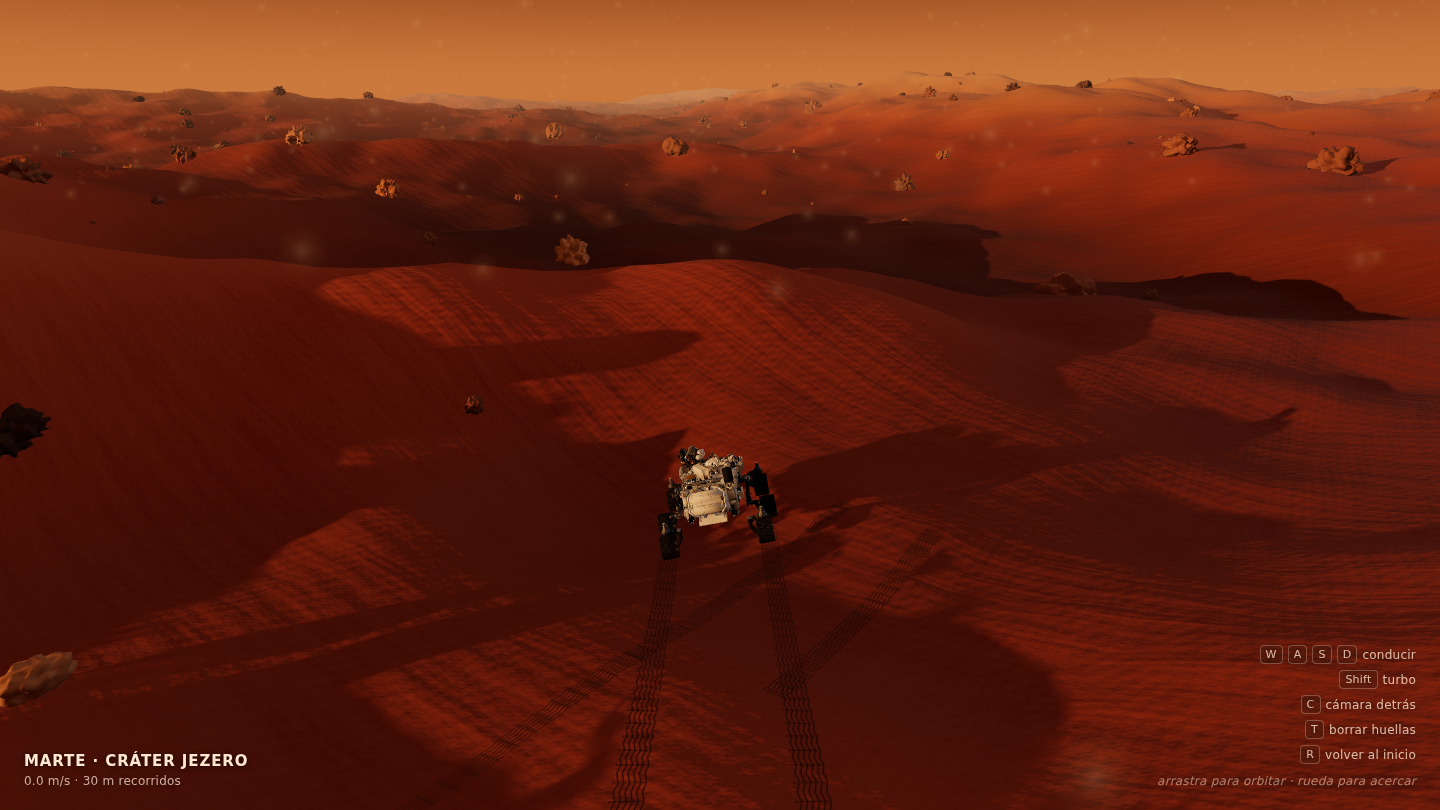
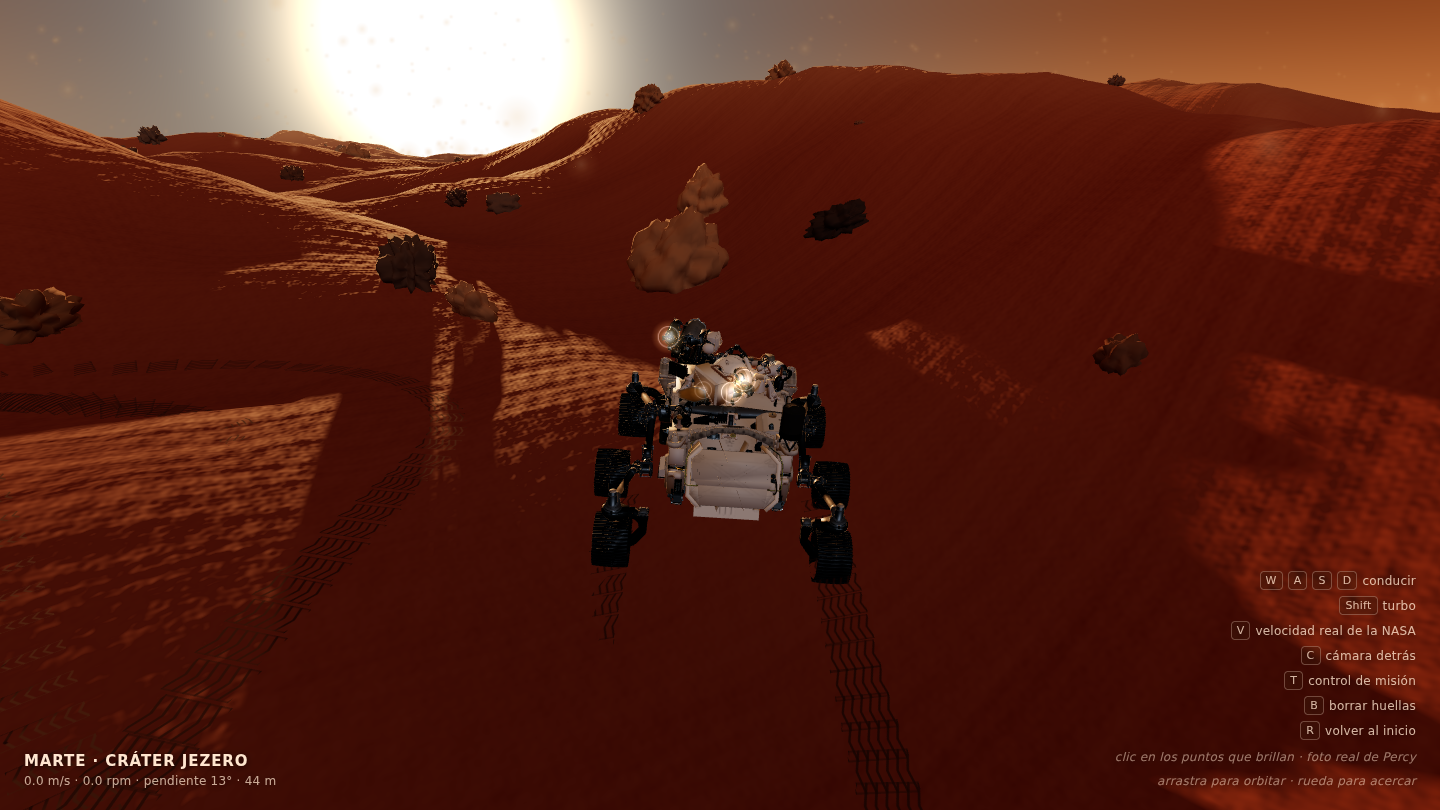
README al día: ruedas, cámaras y capturas nuevas
El README seguía describiendo la versión de antes de las ruedas y de las
cámaras. Ahora cuenta las dos cosas:

- Por qué las ruedas no giraban (el GLB las trae fundidas en un solo nodo,
  sin huesos) y cómo se separan con k-medias, más la física que va encima:
  rocker-bogie con diferencial, Ackermann y el límite de trepada.
- Las cuatro cámaras, de dónde salen las 19 fotos y con qué criterio se
  eligieron.
- Dos trampas nuevas en "detalles que costaron encontrarse": que
  Box3.setFromObject no actualiza las matrices de los padres, y que un
  overlay en pleno fundido sigue comiéndose el ratón.
- Controles completos (V, Esc, flechas, clic en los puntos) y qué comprueba
  hoy npm run check.

Capturas regeneradas con la versión actual: las viejas mostraban la leyenda
de teclas antigua (T borrar huellas, sin V ni cámaras). Nuevas: camaras.png,
foto.png y ruedas.png; rehechas paisaje.png, rover.png y huellas.png.

diff --git a/README.md b/README.md
@@ -1,13 +1,14 @@
 # 🔴 Perseverancia — Marte en el navegador
 
 Un atardecer en el cráter Jezero, renderizado en tiempo real con **Three.js**, con el
-rover **Perseverance** de la NASA conducible a escala real.
+rover **Perseverance** de la NASA conducible a escala real, sus seis ruedas girando
+con la mecánica de verdad y sus cámaras abriendo fotos reales de Marte.
 
-![Paisaje marciano con el sol de tarde y las dos lunas](docs/capturas/paisaje.png)
+![Paisaje marciano con el sol de tarde y Fobos sobre las dunas](docs/capturas/paisaje.png)
 
 > Proyecto hecho como práctica del **Curso de Claude Code para Programadores** (Platzi).
 > Toda la escena es procedural: no hay texturas descargadas ni mapas de altura externos.
-> Lo único que se descarga es el modelo 3D oficial del rover.
+> Lo único que se descarga es el modelo 3D oficial del rover y las fotos de la NASA.
 
 ---
 
@@ -19,16 +20,31 @@ rover **Perseverance** de la NASA conducible a escala real.
   el halo azulado que el polvo fino de Marte produce alrededor del sol al atardecer.
 - **Fobos y Deimos** modeladas con cráteres de perfil geológico real.
 - **El rover Perseverance** de la NASA, a su tamaño real de 3 metros.
-- **Conducción con WASD**, con el rover inclinándose según la pendiente.
+- **Las seis ruedas giran de verdad**, cada una a su velocidad, con suspensión
+  rocker-bogie, dirección Ackermann y giro sobre sí mismo. El GLB de la NASA las trae
+  fundidas en una sola malla: hay que separarlas en código.
+- **Las cámaras de Percy abren fotos reales de Marte**: cuatro puntos que brillan sobre
+  Mastcam-Z, las Navcam, las Hazcam delanteras y WATSON. Clic, obturador, y la foto se
+  revela poco a poco.
 - **Huellas de las ruedas** con el patrón de galones de los grousers reales.
 - **Control de misión** con telemetría real de Percy: distancia recorrida, altura del
   terreno e inclinación del historial de manejos de la NASA, más el tiempo de luz
   Tierra–Marte calculado en vivo con elementos orbitales del JPL.
 - **Verificación automática** con `npm run check`: abre la página en un Chrome
-  headless, guarda una captura, comprueba que los cuatro datos cargaron y falla si
-  hay errores de consola.
+  headless, conduce el rover, hace clic con el ratón en una cámara, guarda las capturas
+  y falla si hay errores de consola.
 
 ## Capturas
+
+**Las cuatro cámaras**, brillando sobre sus piezas del modelo, con su nombre al pasar
+el ratón:
+
+![Los cuatro puntos de cámara sobre el rover](docs/capturas/camaras.png)
+
+**La foto abierta**: Mastcam-Z, sol 2024, bajada en vivo de la API de imágenes en bruto
+de la NASA.
+
+![Una foto real de Marte abierta en el visor](docs/capturas/foto.png)
 
 | El rover a escala real | El rastro de huellas |
 |---|---|
@@ -51,10 +67,15 @@ npm run dev          # http://localhost:5173
 |---|---|
 | `W` `A` `S` `D` o flechas | Conducir |
 | `Shift` | Turbo |
+| `V` | Velocidad real de la NASA (0.042 m/s) |
 | `C` | Devolver la cámara detrás del rover |
 | `T` | Mostrar u ocultar el control de misión |
 | `B` | Borrar las huellas |
 | `R` | Volver al punto de inicio |
+| Clic en un punto que brilla | Abrir una foto real de esa cámara |
+| `←` `→` | Más fotos de esa cámara |
+| Clic en la foto | Ampliar o reducir |
+| `Esc` | Volver al juego |
 | Ratón | Arrastrar para orbitar, rueda para acercar |
 
 ### Verificación
@@ -64,10 +85,18 @@ npm run check
 ```
 
 Abre la página en un Chromium headless (el que Playwright ya tenga en caché, **sin
-descargar navegadores**), espera a que la escena termine de renderizar, comprueba que
-los cuatro datos del control de misión trajeron números reales y que la tecla `T` los
-oculta, guarda `check/screenshot.png` y `check/console.json`, y sale con código ≠ 0 si
-hubo errores. Útil para CI y para revisar un cambio sin abrir el navegador.
+descargar navegadores**) y comprueba de punta a punta:
+
+- que la escena renderiza y no hay errores de consola;
+- que los cuatro datos del control de misión trajeron números reales y que `T` los oculta;
+- que **las seis ruedas giran**, que en curva las de fuera giran más que las de dentro,
+  y que paradas y con `A` las cuatro esquinas se cruzan para girar sobre sí mismo;
+- que **las cuatro cámaras abren una foto real**: hace clic con el ratón de verdad sobre
+  cada punto, espera a que la imagen de `mars.nasa.gov` esté cargada y revelada, y
+  comprueba que las flechas pasan de foto y que `Esc` cierra.
+
+Deja `check/screenshot.png`, `check/foto-abierta.png` y `check/console.json`, y sale con
+código ≠ 0 si algo falló. Útil para CI y para revisar un cambio sin abrir el navegador.
 
 ## Cómo está hecho
 
@@ -81,8 +110,12 @@ src/
   rocks.js      rocas repartidas con InstancedMesh
   moons.js      Fobos y Deimos con cráteres
   dust.js       polvo en suspensión
-  rover.js      carga del GLB, escala real y conducción
+  rover.js      carga del GLB, escala real y toda la física de movilidad
+  wheels.js     parte la malla de las ruedas en seis y les monta los pivotes
   tracks.js     huellas de las ruedas
+  camaras.js    los puntos que brillan sobre las piezas ópticas
+  visor.js      obturador, revelado y visor de fotos
+  fotos.js      las 19 fotos de la NASA elegidas a mano
   telemetry.js  mini TelemetryAPI con el patrón de proveedores de NASA Open MCT
   missionControl.js  el panel: valor, gráfica de toda la misión y qué significa
   providers/
@@ -95,7 +128,57 @@ public/
   draco/        decodificador Draco servido en local
 ```
 
-### Tres detalles que costaron encontrarse
+### Las ruedas venían fundidas en una sola malla
+
+El GLB oficial de la NASA trae las seis ruedas en **un único nodo** (`Wheels_objs`,
+34.788 vértices en 3 primitivas comprimidas con Draco) y **sin huesos**. No existía
+ningún objeto que se pudiera rotar: por eso no giraban, y por eso no se arregla
+buscando el nodo correcto.
+
+La solución es partir la malla en código. Se calcula el centroide de cada triángulo,
+se agrupan con **k-medias (k = 6)** en el plano x/z sembrando los centros en las seis
+posiciones donde deben estar las ruedas, y con cada grupo se construye una
+sub-geometría indexada nueva, remapeando los vértices. A cada rueda se le monta
+después su propia jerarquía de pivotes:
+
+```
+base         → sube y baja: recorrido de la suspensión
+ └ direccion   → gira sobre el eje vertical: solo las 4 de las esquinas
+    └ giro       → rueda sobre el palier: las 6, cada una a su velocidad
+       └ las mallas de esa rueda, con el origen puesto en el palier
+```
+
+Girando sobre sí mismo, las cuatro ruedas de las esquinas se cruzan en **X**:
+
+![Las seis ruedas con las esquinas giradas en X](docs/capturas/ruedas.png)
+
+Sobre esa jerarquía va la física de verdad:
+
+- **Rocker-bogie con diferencial.** El terreno se muestrea bajo las seis ruedas. Cada
+  lado da el ángulo de su rocker, y el cabeceo del chasis es **la media de los dos**,
+  que es exactamente lo que hace el diferencial transversal real. El balanceo sale de
+  la diferencia de apoyo entre lados.
+- **Ackermann.** El ángulo de cada rueda directriz es `δ = atan2(ψ̇·z, v − ψ̇·x)`: la
+  dirección que hace que esa rueda apunte adonde realmente se mueve. La misma fórmula,
+  con `v = 0`, produce sola la **X** del giro sobre sí mismo.
+- **Tracción.** `aMax = μ·g·cos(pendiente)` con μ = 0.55 y g = 3.721 m/s². Sale un
+  límite de trepada de ~33°, cerca de los **30° certificados** por la NASA. Por encima,
+  las ruedas patinan y el HUD lo dice.
+
+### Las cámaras y las fotos
+
+Los cuatro puntos son sprites aditivos sin test de profundidad, colocados sobre el
+centro de `Mastcam_Z_cams`, `NavCams`, `hazcams_front` y `WATSON`.
+
+Las 19 fotos vienen de la [API de imágenes en bruto de Mars 2020](https://mars.nasa.gov/rss/api/?feed=raw_images&category=mars2020&feedtype=json&ver=1.2&num=100&page=0&order=sol+desc),
+filtrando por cámara con `&search=|NAVCAM_LEFT|`. Están **elegidas a mano**: se
+descargaron las de los últimos soles, se montaron en hojas de contactos y se miraron
+una a una. Se quedaron las que se sienten Marte — el horizonte de Jezero, el brazo
+sobre el suelo, una roca a centímetros — y se descartaron el cielo vacío, el sol, los
+blancos de calibración y las miniaturas. Cada foto dice su cámara, su sol y hace
+cuántos días se tomó.
+
+### Cinco detalles que costaron encontrarse
 
 **1. `IcosahedronGeometry` no viene indexada.** Cada triángulo tiene sus propios
 vértices, así que `computeVertexNormals()` produce *flat shading* por mucho detalle
@@ -109,6 +192,17 @@ que se le ponga. Las lunas y las rocas se veían facetadas hasta que pasaron por
 **3. Los normal maps procedurales tienen que repetir sin costura.** Se construyen como
 suma de ondas con **frecuencias enteras** sobre el cuadro `[0,1)`: así son periódicos
 por construcción y se pueden tilear sobre el terreno sin que se vea la junta.
+
+**4. `Box3.setFromObject` no actualiza las matrices de los padres.** Llama a
+`updateWorldMatrix(false, false)`, que actualiza *solo* la del propio objeto. Los
+centros de las piezas ópticas salían calculados contra matrices viejas y los puntos
+de cámara acababan flotando a 35 metros del rover. Se arregla con un
+`updateMatrixWorld(true)` explícito desde la raíz antes de medir.
+
+**5. Un overlay que se desvanece sigue comiéndose el ratón.** Tras pulsar `Esc`, el
+visor tardaba 300 ms en irse por su transición de opacidad, y durante ese rato seguía
+capturando los eventos del puntero: el clic en el siguiente punto no llegaba nunca.
+`pointer-events: none` por defecto y `auto` solo en `.abierto`.
 
 ### Los datos de la NASA no se pueden pedir desde el navegador
 
@@ -124,11 +218,17 @@ lo sirve como propio, cacheado en memoria. Mismo dato, misma fuente, sin instala
 ### Decisiones conscientes
 
 - **La velocidad no es real.** El Perseverance se mueve a 0.042 m/s (152 metros por
-  hora). A esa velocidad esto sería injugable, así que conduce a 2.6 m/s.
+  hora). A esa velocidad esto sería injugable, así que conduce a 2.6 m/s. La tecla `V`
+  la baja a la de verdad, para que se note lo lento que es Marte.
 - **Las dunas tampoco.** Están a ~3 m de altura para que el rover pueda subirlas y
   guarden proporción con él.
 - **Las lunas se ven más grandes** de lo que se verían desde la superficie de Marte.
   Licencia poética para que se aprecien los cráteres.
+- **Los brazos de la suspensión no articulan.** En el GLB son una pieza rígida, así que
+  el recorrido de cada rueda se limita a ±8,5 cm: lo justo para que se vea la suspensión
+  trabajar sin que las ruedas se salgan del brazo.
+- **El radio de rueda sale 0,2535 m** en vez de los 0,2625 m reales (3,4% corto), porque
+  la escala del modelo está anclada a los 3,0 m de largo total y no a la rueda.
 - **La odometría se corrige.** 129 de los 708 waypoints traen `dist_total_m = 0`: son
   marcas de «site increment, no motion», no lecturas reales. Se arrastra el máximo,
   porque un odómetro nunca retrocede.
@@ -137,6 +237,9 @@ lo sirve como propio, cacheado en memoria. Mismo dato, misma fuente, sin instala
 
 - Modelo 3D del rover: [NASA 3D Resources](https://github.com/nasa/NASA-3D-Resources)
   — *Mars 2020 Perseverance Rover*.
+- Fotos de Marte: **NASA/JPL-Caltech**, de la API pública de imágenes en bruto de
+  Mars 2020 (dominio público).
+- Telemetría: NASA MMGIS (historial de manejos) y elementos orbitales del JPL.
 - Decodificador Draco: incluido en [three.js](https://github.com/mrdoob/three.js).
 - Todo lo demás (terreno, cielo, lunas, rocas, polvo, huellas) es procedural.
 
